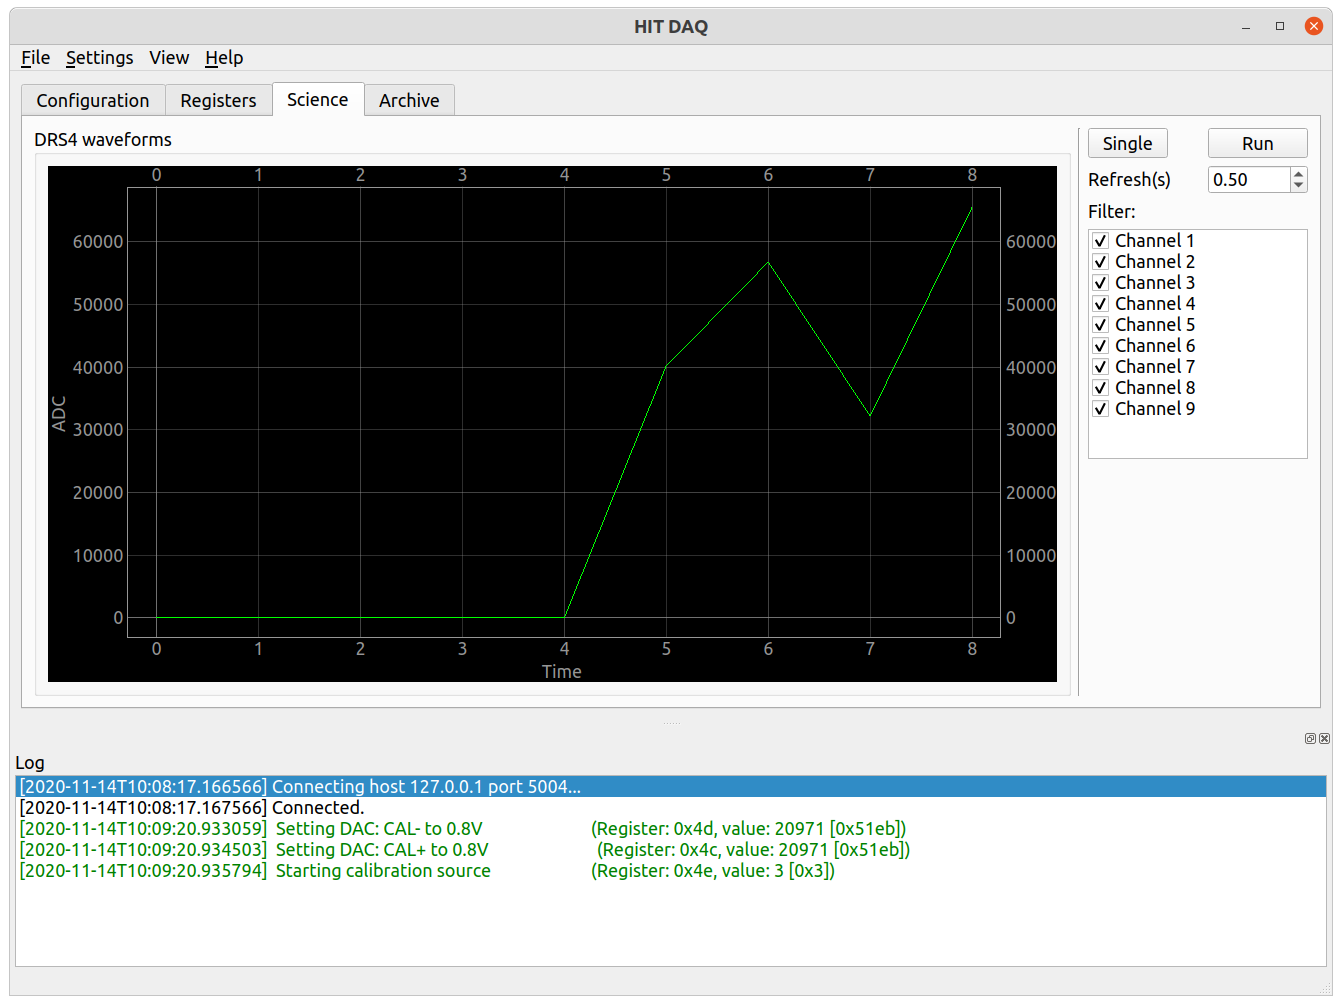
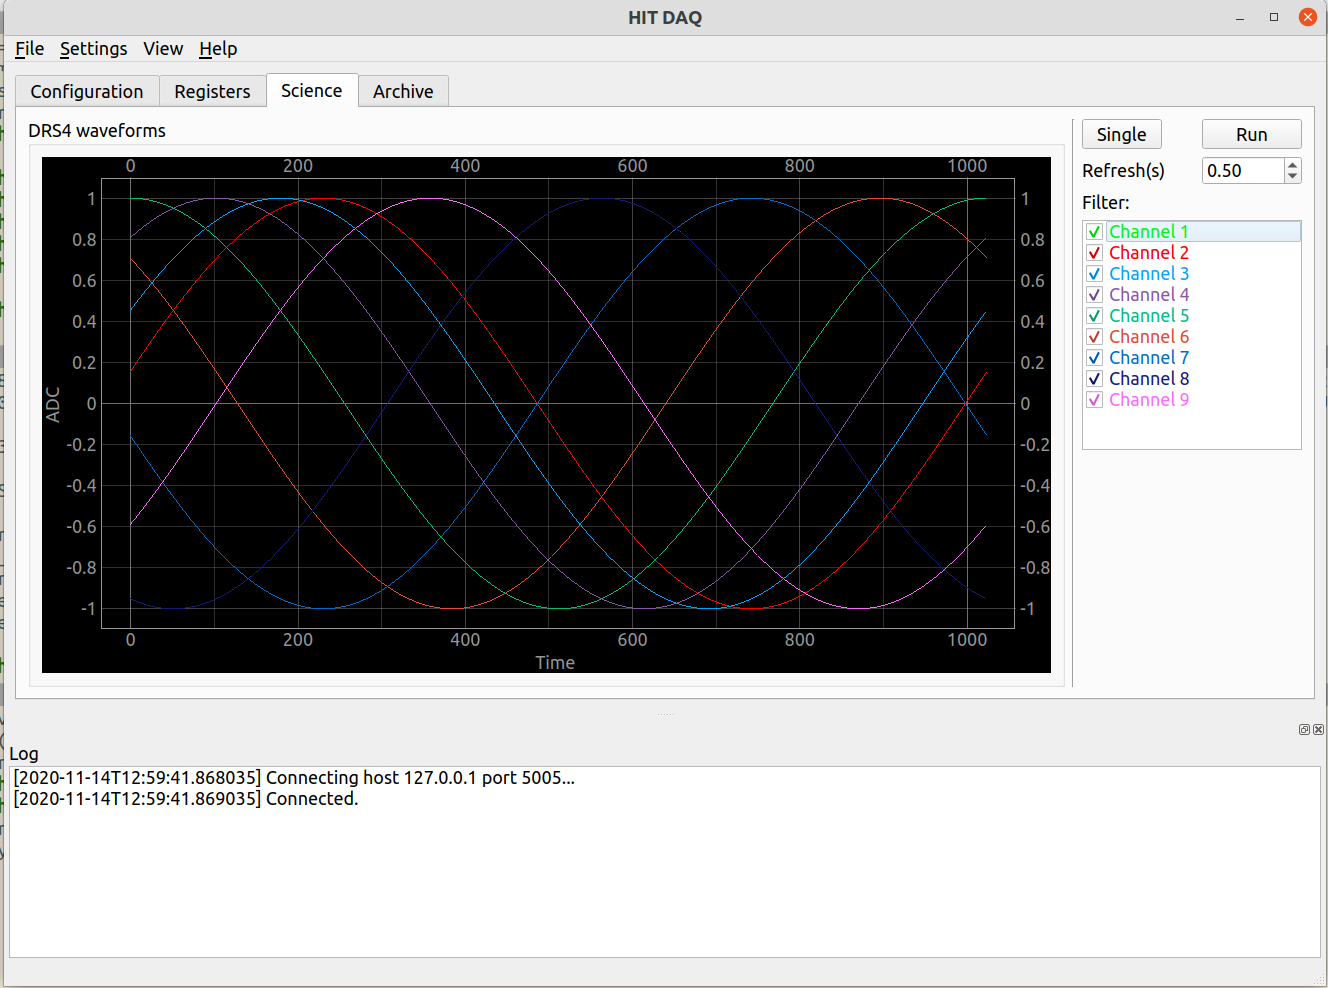
updated code

diff --git a/mainwindow.py b/mainwindow.py
@@ -288,10 +288,17 @@ class Ui(window.Ui_MainWindow, daq_comm.DaqComm):
     def create_sci_chart(self):
         pg.setConfigOption('leftButtonPan', False)
         self.view= pg.PlotWidget()
+    
         self.chartLayout = QtWidgets.QHBoxLayout(self.waveformGroupBox)
         self.chartLayout.addWidget(self.view)
-        colors=[(0,255,0),(44,162,95),(158,188,218),(136,86,167),(253,187,132),(227,74,51),(201,148,199),(221,28,119),(253,174,107)]
-        self.plots={i: self.view.plot(pen=colors[i], name=f'Channel {i+1}') for i in range(9)}
+        colors=[(0,255,0),(255,0,0),(0,162,255),(136,86,167),(3,187,132),(227,74,51),(1,108,200),(21,28,119),(253,104,255)]
+        #self.view.addLegend()
+        self.plots={i: self.view.plot(pen=pg.mkPen(color=colors[i] ), 
+            name=f'Channel {i+1}') for i in range(9)}
+        #set color for channel selection boxes
+        for index,color in enumerate(colors):
+            self.channelListWidget.item(index).setForeground(QtGui.QColor(color[0],color[1],color[2]))
+
         self.view.setLabel('left', "ADC", units='')
         self.view.setLabel('bottom', "Time", units='')
         self.view.showGrid(x=True, y=True)
@@ -310,7 +317,7 @@ class Ui(window.Ui_MainWindow, daq_comm.DaqComm):
         if debug:
             for i in range(9):
                 self.debug_waveform_phase+=i*math.pi/20
-                waveform_data['data'][i+1]=[math.sin(j/(2*math.pi)+self.debug_waveform_phase) for j in range(1024)]
+                waveform_data['data'][i+1]=[math.sin(2*j*math.pi/1024+self.debug_waveform_phase) for j in range(1024)]
             self.plot_waveform(waveform_data)
 
             return
@@ -353,6 +360,10 @@ class Ui(window.Ui_MainWindow, daq_comm.DaqComm):
             self.drs4_channel_enabled[index]=checked
             if not checked:
                 self.plots[index].clear()
+            #else:
+            #    self.view.addItem(self.plots[index])
+
+            
 
 
 
